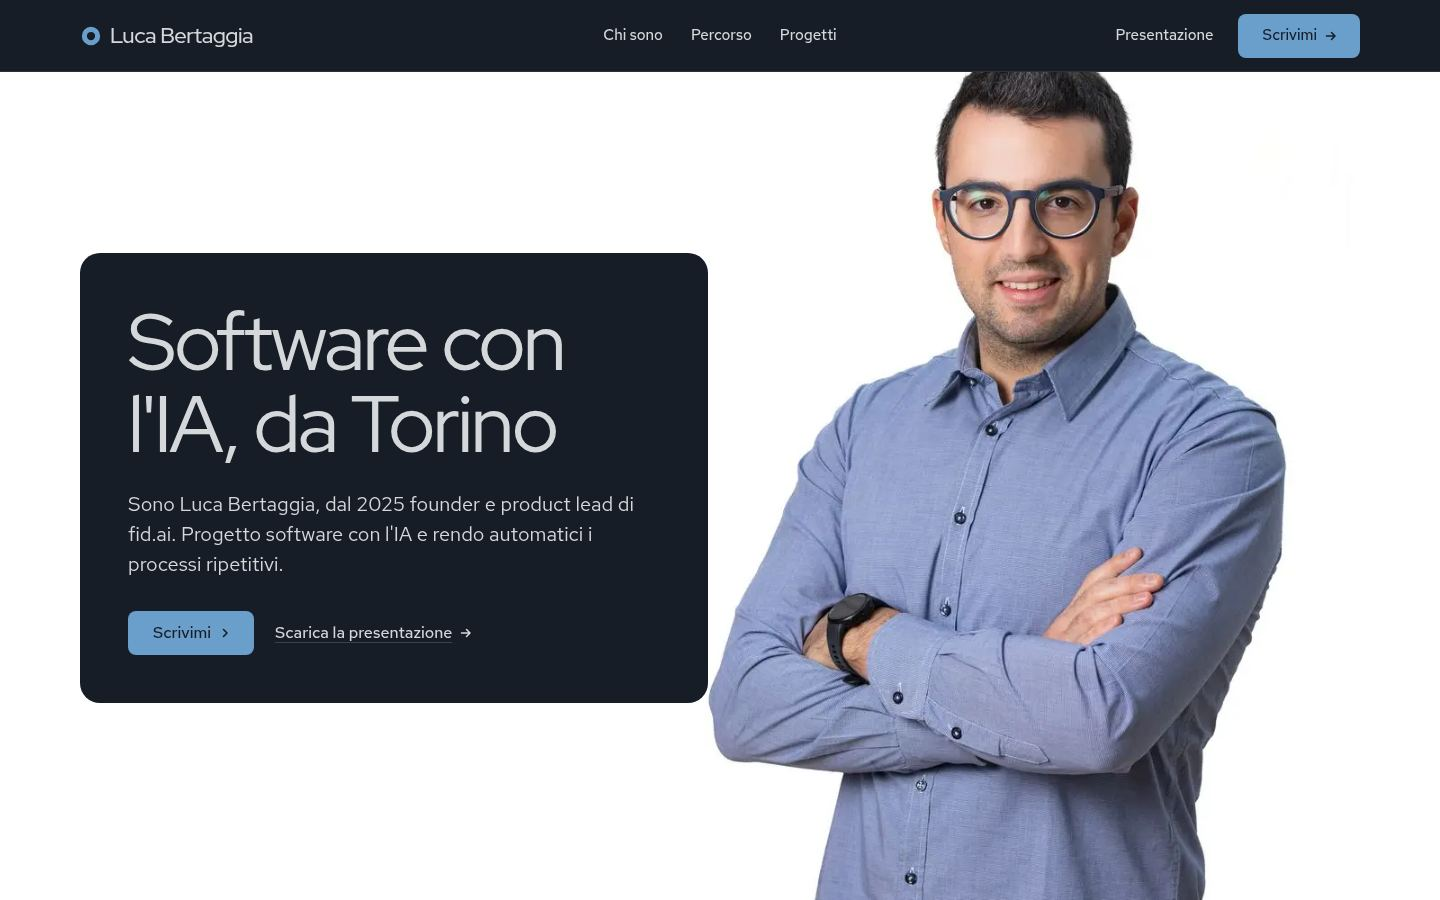
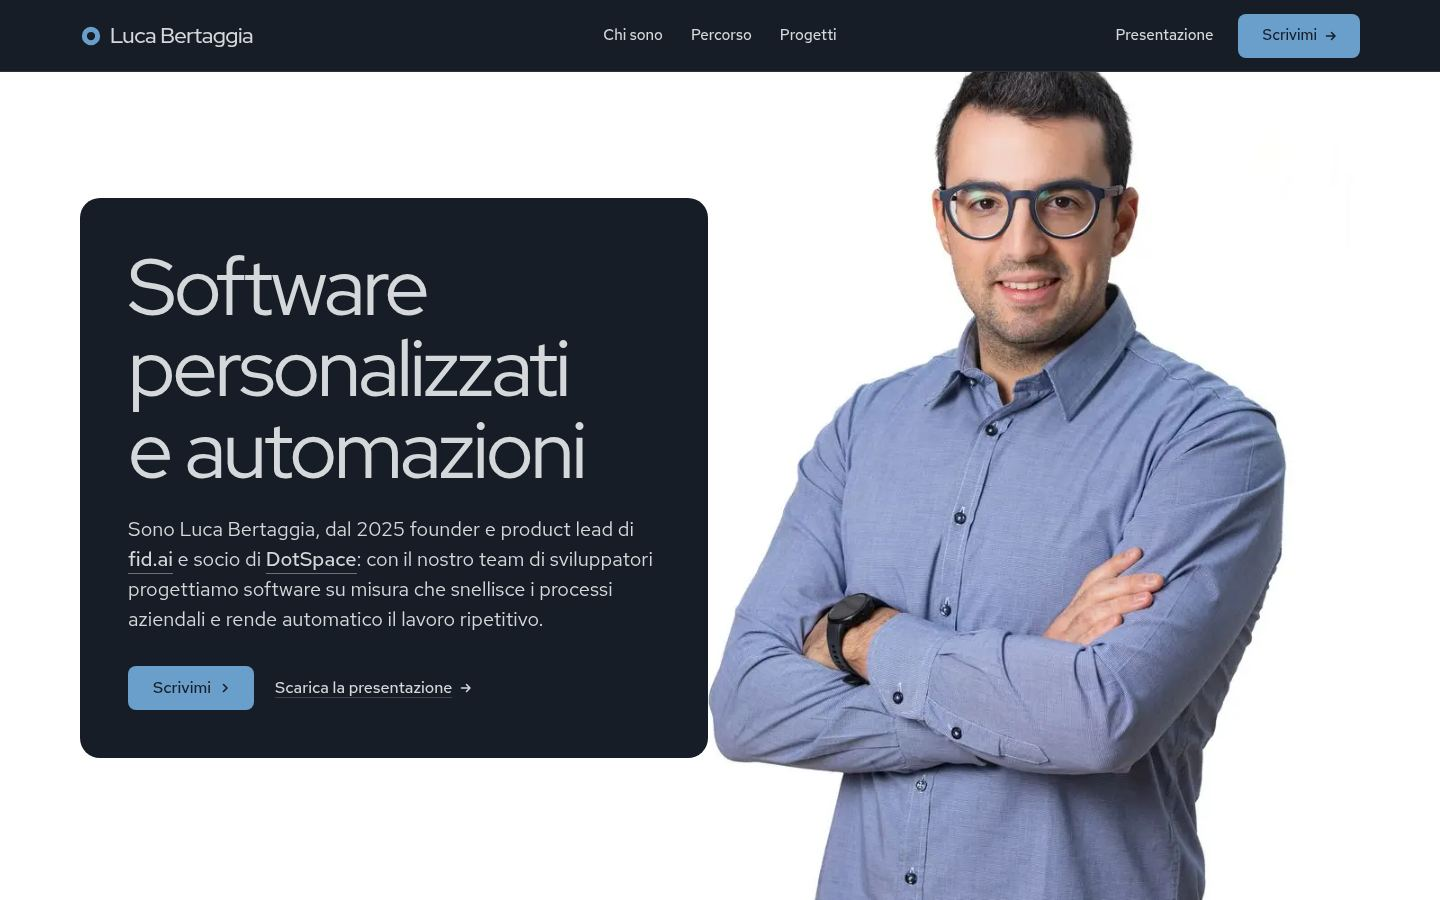
Aggiorna bozza-taste sezioni 1-4 e visual interattivo

Changed region(s): [[0.0312, 0.2178, 0.5, 0.84]]

diff --git a/bozza-taste/index.html b/bozza-taste/index.html
@@ -1,13 +1,13 @@
 <!doctype html>
-<html lang="it" data-type="service" data-radius="soft" data-buttons="arrow" data-motion>
+<html lang="it" data-type="service" data-radius="soft" data-buttons="arrow" data-ground="sky" data-motion>
 <head>
 <meta charset="utf-8">
 <meta name="viewport" content="width=device-width, initial-scale=1, viewport-fit=cover">
-<title>Luca Bertaggia: software con l'IA da Torino</title>
+<title>Luca Bertaggia: software personalizzati e automazioni</title>
 <meta name="description" content="Founder e product lead di fid.ai e socio di Dotspace: progetto software con l'IA che rende automatici i processi ripetitivi.">
 <meta name="robots" content="noindex">
 <meta property="og:type" content="website">
-<meta property="og:title" content="Luca Bertaggia: software con l'IA da Torino">
+<meta property="og:title" content="Luca Bertaggia: software personalizzati e automazioni">
 <meta property="og:description" content="Progetto software con l'IA e rendo automatici i processi ripetitivi.">
 <meta property="og:image" content="share.jpg">
 <meta name="twitter:card" content="summary_large_image">
@@ -19,6 +19,8 @@
 <link rel="preload" href="fonts/red-hat-display-latin.woff2" as="font" type="font/woff2" crossorigin>
 <link rel="preload" href="fonts/red-hat-text-latin.woff2" as="font" type="font/woff2" crossorigin>
 <link rel="stylesheet" href="assets/system.css">
+<link rel="stylesheet" href="assets/ui/base.css">
+<link rel="stylesheet" href="assets/ui/pipeline-board/fragment.css">
 <link rel="stylesheet" href="assets/ui/cards.css">
 <link rel="stylesheet" href="assets/motion/motion.css">
 <link rel="stylesheet" href="assets/layout/layout.css">
@@ -36,8 +38,49 @@
   --display-tracking: -0.025em;
   --display-tracking-xl: -0.035em;
 }
-/* page CSS inside a visual: the portrait's frame lower on a tablet, so "Chi sono" stays one screen there */
-@media (min-width: 640px) and (max-width: 1023px) { #chi-sono .frame { --ratio: 60%; } }
+.hero__lead a { font-weight: 500; text-decoration: underline; text-decoration-color: var(--line-strong); text-underline-offset: 4px; transition: text-decoration-color var(--dur) var(--ease); }
+.hero__lead a:hover { text-decoration-color: currentColor; }
+@media (max-width: 639px) {
+  #top .hero--photo { --photo: 33svh; }
+  #top .hero--photo .hero__text > * + * { margin-top: var(--s-4); }
+  #top .hero--photo .hero__text > .btn-row { margin-top: var(--s-5); }
+}
+@media (min-width: 640px) and (max-width: 1023px) and (orientation: portrait) {
+  #top .hero--photo { --photo: min(52svh, 72vw); }
+}
+@media (min-width: 1024px) and (max-height: 820px) {
+  #top .hero--photo:not([data-box="none"]) .hero__text { padding: var(--s-6); }
+  #top .hero--photo .hero__text > * + * { margin-top: var(--s-4); }
+  #top .hero--photo .hero__text > .btn-row { margin-top: var(--s-5); }
+  #progetti .section-head { margin-bottom: var(--s-4); }
+  #progetti .rows > li { padding-block: 10px; }
+}
+@media (min-width: 640px) and (max-width: 810px) {
+  footer#contact .closing__cta > .btn--xl { width: 100%; max-width: none; }
+}
+#chi-sono .card > .panel--inset:first-child {
+  margin-top: calc(var(--c-gap) - var(--c-pad)); --p-h: 484px; --calm: #e8eef4; --calm-k: 45%;
+  background-color: var(--ground-bg, #c6d3df);
+  background-image:
+    radial-gradient(70% 90% at 12% 0%, color-mix(in oklab, var(--ground-surface, #d6e0e9) 92%, white), transparent 70%),
+    radial-gradient(60% 80% at 100% 100%, color-mix(in oklab, var(--ground-accent, #3f6a92) 26%, var(--ground-bg, #c6d3df)), transparent 72%);
+}
+#chi-sono .ui-pipe {
+  --u-muted: color-mix(in oklab, var(--u-ink) 76%, var(--u-bg));
+  --u-soft: color-mix(in oklab, var(--u-ink) 72%, var(--u-bg));
+}
+#chi-sono .ui-pipe .ui-avatar { background: var(--u-fill-3); color: var(--u-ink); }
+@media (max-width: 1023px) {
+  #chi-sono .grid { row-gap: var(--s-7); }
+  #chi-sono .card > .panel--inset:first-child { --p-h: 344px; }
+}
+@media (max-width: 639px) {
+  #chi-sono .card > .panel--inset:first-child { --p-h: 510px; }
+}
+@container ui-pipe (max-width: 460px) {
+  .ui-pipe .ui-pipe__step { grid-template-columns: 18px minmax(0, 1fr) auto; }
+  .ui-pipe .ui-pipe__cmd { display: none; }
+}
 </style>
 <script>document.documentElement.classList.add('m-enter');setTimeout(()=>document.documentElement.classList.add('m-enter-done'),700)</script>
 <script>document.documentElement.classList.add('mo-js');setTimeout(()=>document.documentElement.classList.add('mo-safe'),2500)</script>
@@ -75,8 +118,8 @@
     <img class="hero__bg" src="img/luca-hero-2560.webp" srcset="img/luca-hero-800.webp 800w, img/luca-hero-1600.webp 1600w, img/luca-hero-2560.webp 2560w" sizes="(max-width: 639px) 390px, 100vw" width="2560" height="1600" alt="Luca Bertaggia a braccia conserte, camicia azzurra e occhiali, su fondo bianco" style="--ly-pos: 70% 30%; --ly-pos-phone: 50% 20%" fetchpriority="high" data-source="client" data-subject="Luca Bertaggia">
     <div class="wrap"><div class="hero-text">
       <div class="hero__text">
-        <h1 id="hero-h">Software con l'IA, da Torino</h1>
-        <p class="hero__lead">Sono Luca Bertaggia, dal 2025 founder e product lead di fid.ai. Progetto software con l'IA e rendo automatici i processi ripetitivi.</p>
+        <h1 id="hero-h">Software personalizzati e automazioni</h1>
+        <p class="hero__lead">Sono Luca Bertaggia, dal 2025 founder e product lead di <a href="https://fidai.it">fid.ai</a> e socio di <a href="https://dotspace.it">DotSpace</a>: con il nostro team di sviluppatori progettiamo software su misura che snellisce i processi aziendali e rende automatico il lavoro ripetitivo.</p>
         <div class="btn-row"><a class="btn btn--primary" href="mailto:luca.bertaggia@dotspace.it">Scrivimi<svg class="m-arrow" viewBox="0 0 12 12" aria-hidden="true"><path class="m-arrow__stem" d="M1 6h8"/><path class="m-arrow__head" d="M4.5 2.5 8 6l-3.5 3.5"/></svg></a><a class="btn btn--secondary" href="../Luca-Bertaggia-IT-Italiano.pdf">Scarica la presentazione</a></div>
       </div>
     </div></div>
@@ -87,14 +130,54 @@
       <div class="span-5">
         <div class="section-head"><h2 id="chi-h">Meno lavoro ripetuto a mano</h2></div>
         <div class="stack-4">
-          <p class="t-lead">Vengo dal mondo accademico, dove ho iniziato ad automatizzare con l'IA i processi amministrativi più noiosi. Oggi sono founder e product lead di fid.ai e socio di Dotspace.</p>
-          <p>Smonto i sistemi che le persone ripetono a mano e li rimonto in flussi autonomi, per togliere lavoro superfluo. Uso IA, pipeline RAG e orchestrazione di LLM.</p>
+          <p class="t-lead">Vengo dal mondo accademico, dove ho iniziato ad automatizzare con l'IA i processi amministrativi più noiosi. Oggi mi occupo di smontare i sistemi che le persone ripetono a mano e rimontarli in flussi autonomi, per togliere lavoro superfluo.</p>
+          <p>Uso IA, pipeline RAG e orchestrazione di LLM.</p>
           <p>Sicurezza, permessi e dati personali vengono sempre al primo posto.</p>
           <p><a class="link" href="#percorso">Leggi il percorso</a></p>
         </div>
       </div>
-      <div class="frame frame--photo frame--split frame--fill fill span-6 start-7">
-        <img class="frame__img" src="img/luca-ritratto-1280.webp" srcset="img/luca-ritratto-400p.webp 400w, img/luca-ritratto-1280.webp 1280w" sizes="(max-width: 639px) 342px, (max-width: 1023px) 100vw, 628px" width="1280" height="1024" alt="Luca Bertaggia in piedi con le mani in tasca, sorridente" loading="lazy" decoding="async" style="object-position: 50% 20%" data-source="client" data-subject="Luca Bertaggia">
+      <div class="card m-nolift span-6 start-7" data-ui-still>
+        <div class="panel panel--inset">
+          <div class="stage">
+            <div class="at-rise fit" style="--ax:32px;--ay:84px;--ay-sm:108px;--fit-max:540px">
+              <div class="ui ui-panel ui-pipe" data-ui="pipeline-board">
+                <div class="ui-pipe__head">
+                  <svg class="ui-icon ui-pipe__branch" viewBox="0 0 16 16" aria-hidden="true"><circle cx="4.5" cy="3.5" r="1.5"/><circle cx="4.5" cy="12.5" r="1.5"/><circle cx="11.5" cy="5" r="1.5"/><path d="M4.5 5v6M11.5 6.5c0 2.6-2.2 3.6-5.6 4.6"/></svg>
+                  <span class="ui-pipe__repo">flussi/automazione</span><i class="ui-pipe__slash">/</i><code class="ui-pipe__ref">produzione</code>
+                  <span class="ui-pipe__run">#6000</span>
+                  <span class="ui-spacer"></span>
+                  <span class="ui-pipe__total"><svg class="ui-icon" viewBox="0 0 16 16" aria-hidden="true"><circle cx="8" cy="8.5" r="5.5"/><path d="M8 5.5v3l2 1.25M6.5 1.75h3"/></svg><span data-pipe-total>3.8s</span></span>
+                  <span class="ui-chip ui-chip--ink ui-chip--live ui-pipe__chip" data-pipe-chip data-done="Completato">Attivo</span>
+                </div>
+                <div class="ui-pipe__commit">
+                  <span class="ui-avatar" data-tone="4">LB</span>
+                  <span class="ui-pipe__msg">Pratica manuale -&gt; flusso autonomo</span>
+                  <code class="ui-pipe__sha">rag-gdpr</code>
+                  <button class="ui-btn ui-btn--ghost ui-btn--sm ui-pipe__btn" type="button" tabindex="-1" data-pipe-btn data-done="Riesegui">Ferma</button>
+                </div>
+                <ol class="ui-pipe__steps">
+                  <li class="ui-pipe__step is-done" data-step="raccolta"><span class="ui-pipe__ico"><svg viewBox="0 0 16 16" aria-hidden="true"><path d="m4.5 8.2 2.3 2.3 4.7-5"/></svg></span><span class="ui-pipe__name"><span class="ui-pipe__tool" aria-hidden="true"><img data-icon="gmail" src="assets/icons/gmail.svg" width="13" height="13" loading="lazy" decoding="async" alt=""></span><span class="ui-pipe__nm">Raccolta</span></span><code class="ui-pipe__cmd">35 GB email · record normalizzati</code><span class="ui-pipe__time" data-time>0.6s</span><span class="ui-pipe__bar"><i></i></span></li>
+                  <li class="ui-pipe__step is-done" data-step="gdpr"><span class="ui-pipe__ico"><svg viewBox="0 0 16 16" aria-hidden="true"><path d="m4.5 8.2 2.3 2.3 4.7-5"/></svg></span><span class="ui-pipe__name"><span class="ui-pipe__tool" aria-hidden="true"><img data-icon="python" src="assets/icons/python.svg" width="13" height="13" loading="lazy" decoding="async" alt=""></span><span class="ui-pipe__nm">Filtro GDPR</span></span><code class="ui-pipe__cmd">anonimizzazione dati personali</code><span class="ui-pipe__time" data-time>0.8s</span><span class="ui-pipe__bar"><i></i></span></li>
+                  <li class="ui-pipe__step is-run" data-step="rag" style="--k:0.6"><span class="ui-pipe__ico"><svg viewBox="0 0 16 16" aria-hidden="true"><path d="m4.5 8.2 2.3 2.3 4.7-5"/></svg></span><span class="ui-pipe__name"><span class="ui-pipe__tool" aria-hidden="true"><img data-icon="postgres" src="assets/icons/postgres.svg" width="13" height="13" loading="lazy" decoding="async" alt=""></span><span class="ui-pipe__nm">Pipeline RAG</span></span><code class="ui-pipe__cmd">85 regole operative estratte</code><span class="ui-pipe__time" data-time="1.1s">0.7s</span><span class="ui-pipe__bar"><i></i></span></li>
+                  <li class="ui-pipe__step" data-step="llm"><span class="ui-pipe__ico"><svg viewBox="0 0 16 16" aria-hidden="true"><path d="m4.5 8.2 2.3 2.3 4.7-5"/></svg></span><span class="ui-pipe__name"><span class="ui-pipe__tool" aria-hidden="true"><img data-icon="docker" src="assets/icons/docker.svg" width="13" height="13" loading="lazy" decoding="async" alt=""></span><span class="ui-pipe__nm">Router LLM</span></span><code class="ui-pipe__cmd">classifica ed esegue pratica</code><span class="ui-pipe__time" data-time="0.9s">In coda</span><span class="ui-pipe__bar"><i></i></span></li>
+                  <li class="ui-pipe__step" data-step="consegna"><span class="ui-pipe__ico"><svg viewBox="0 0 16 16" aria-hidden="true"><path d="m4.5 8.2 2.3 2.3 4.7-5"/></svg></span><span class="ui-pipe__name"><span class="ui-pipe__tool" aria-hidden="true"><img data-icon="google-calendar" src="assets/icons/google-calendar.svg" width="13" height="13" loading="lazy" decoding="async" alt=""></span><span class="ui-pipe__nm">Consegna</span></span><code class="ui-pipe__cmd">documento pronto e archiviato</code><span class="ui-pipe__time" data-time="0.4s">In coda</span><span class="ui-pipe__bar"><i></i></span></li>
+                </ol>
+                <div class="ui-pipe__log" aria-hidden="true">
+                  <span class="ui-pipe__line" data-step="raccolta"><b>$</b>sync gmail --archivio 35GB</span>
+                  <span class="ui-pipe__line" data-step="raccolta">normalizzati 6.000 record in ingresso</span>
+                  <span class="ui-pipe__line" data-step="gdpr"><b>$</b>python filtro_gdpr.py --strict</span>
+                  <span class="ui-pipe__line" data-step="gdpr">dati personali anonimizzati prima dell'indice</span>
+                  <span class="ui-pipe__line is-on" data-step="rag"><b>$</b>rag-index --fonti postgres</span>
+                  <span class="ui-pipe__line is-on" data-step="rag">estratte 85 regole operative verificate</span>
+                  <span class="ui-pipe__line" data-step="llm"><b>$</b>docker exec router-llm --pratica</span>
+                  <span class="ui-pipe__line" data-step="llm">pratica classificata ed eseguita in sicurezza</span>
+                  <span class="ui-pipe__line" data-step="consegna"><b>$</b>calendar-sync --archivia</span>
+                  <span class="ui-pipe__line" data-step="consegna">documento pronto, verifica permessi completata</span>
+                </div>
+              </div>
+            </div>
+          </div>
+        </div>
       </div>
     </div>
   </section>
@@ -102,33 +185,33 @@
   <section class="section statement" id="whoami" data-moment="word-highlight" aria-label="In breve">
     <div class="wrap">
       <p class="t-label">whoami</p>
-      <p class="mo-wh__text">Costruisco software che fa <strong>il lavoro noioso</strong> al posto delle persone. Lavoro a Torino, con un server acceso h24. Adesso insegno a una segreteria a rispondere ai clienti da sola: si chiama fid.ai.</p>
+      <p class="mo-wh__text">Detesto il lavoro ripetitivo e promuovo la delega a <strong>sistemi esperti personalizzati</strong>. Lavoro da remoto proteggendo i dati dei clienti: server dedicati in Europa, conformità al GDPR, permessi granulari e rispetto dell'AI Act.</p>
     </div>
   </section>
 
   <section class="section" id="percorso" data-moment="photo-chapters" aria-labelledby="percorso-h">
     <div class="wrap mo-ph">
-      <div class="mo-ph__head"><h2 id="percorso-h">Il percorso, dall'università a fid.ai</h2><p>Dalla ricerca all'ufficio tirocini, poi un'azienda mia e una borsa di mobilità in Cile. <a class="link" href="../Luca-Bertaggia-IT-Italiano.pdf">Scarica la presentazione</a></p></div>
+      <div class="mo-ph__head"><h2 id="percorso-h">Il mio percorso: dallo sport al mondo dei pc</h2><p>Nasco come atleta professionista, ottengo un doppio titolo universitario sul tema, poi vinco una borsa di ricerca di quattro anni in UniTO e scopro ciò che mi appassiona: studiare i processi aziendali per semplificare i flussi lavorativi. <a class="link" href="../Luca-Bertaggia-IT-Italiano.pdf">Scarica la presentazione</a></p></div>
       <ol class="mo-ph__list">
         <li class="mo-ph__ch">
-          <figure class="mo-ph__pic"><img src="img/photo-f89289298-1920.webp" srcset="img/photo-f89289298-720p.webp 720w, img/photo-f89289298-960.webp 960w, img/photo-f89289298-1920.webp 1920w" sizes="(max-width: 639px) 342px, (max-width: 1023px) 100vw, 1280px" alt="Torino dall'alto, con le Alpi innevate sullo sfondo" width="1920" height="1280" data-source="stand-in" data-subject="Torino" loading="lazy" decoding="async"></figure>
+          <figure class="mo-ph__pic"><img src="img/photo-f181245784-1920.webp" srcset="img/photo-f181245784-720.webp 720w, img/photo-f181245784-960.webp 960w, img/photo-f181245784-1920.webp 1920w" sizes="(max-width: 639px) 720px, (max-width: 1023px) 1360px, 1280px" alt="Pista azzurra e tribuna dello Stadio Primo Nebiolo a Torino" width="1920" height="1280" data-source="stand-in" data-subject="atletica" loading="lazy" decoding="async"></figure>
           <h3>2016–2022: Scienze motorie a Torino</h3>
           <p>Triennale con 110/110, magistrale con 105/110 e dignità di stampa, due Erasmus+ all'Universidad de Almería e una ricerca sul benessere dopo la pandemia, presentata al Convegno SIPI di Padova.</p>
         </li>
         <li class="mo-ph__ch">
-          <figure class="mo-ph__pic"><img src="img/photo-f106434183-1920.webp" srcset="img/photo-f106434183-720p.webp 720w, img/photo-f106434183-960.webp 960w, img/photo-f106434183-1920.webp 1920w" sizes="(max-width: 639px) 342px, (max-width: 1023px) 100vw, 1280px" alt="Il Campus Luigi Einaudi dell'Università di Torino, facciata curva in vetro" width="1920" height="1280" data-source="stand-in" data-subject="Università di Torino" loading="lazy" decoding="async"></figure>
-          <h3>Dal 2023: ufficio tirocini dell'Università di Torino</h3>
-          <p>Oltre 800 enti convenzionati. Invece di gestirli a mano ho realizzato i primi automatismi, e la qualità del servizio è salita.</p>
+          <figure class="mo-ph__pic"><img src="img/photo-f106434183-1920.webp" srcset="img/photo-f106434183-720p.webp 720w, img/photo-f106434183-960.webp 960w, img/photo-f106434183-1920.webp 1920w" sizes="(max-width: 639px) 720px, (max-width: 1023px) 1360px, 1280px" alt="Il Campus Luigi Einaudi dell'Università di Torino, facciata curva in vetro" width="1920" height="1280" data-source="stand-in" data-subject="Università di Torino" loading="lazy" decoding="async"></figure>
+          <h3>2023–2027: ufficio tirocini dell'Università di Torino</h3>
+          <p>Oltre 800 enti convenzionati e 6.000 pratiche automatizzate. Grazie a questo progetto di digitalizzazione avvio una partnership internazionale con l'Universidad de Concepción, in Cile, per condividere il modello sui flussi formativi.</p>
         </li>
         <li class="mo-ph__ch">
-          <figure class="mo-ph__pic"><img src="img/photo-f65122033-1920.webp" srcset="img/photo-f65122033-720p.webp 720w, img/photo-f65122033-960.webp 960w, img/photo-f65122033-1920.webp 1920w" sizes="(max-width: 639px) 342px, (max-width: 1023px) 100vw, 1280px" alt="Armadi di server aperti in una sala tecnica" width="1920" height="1280" data-source="stand-in" data-subject="server" loading="lazy" decoding="async"></figure>
-          <h3>Dal 2025: fid.ai e Dotspace</h3>
-          <p>Fondo fid.ai e lo porto dall'idea al server. Divento socio di Dotspace, con tre sviluppatori.</p>
+          <figure class="mo-ph__pic"><img src="img/fidai-bozze-1600.webp" srcset="img/fidai-bozze-720.webp 720w, img/fidai-bozze-960.webp 960w, img/fidai-bozze-1600.webp 1600w" sizes="(max-width: 639px) 750px, (max-width: 1023px) 1360px, 1280px" alt="Schermata delle bozze di risposta preparate dall'intelligenza artificiale di fid.ai" width="1600" height="1000" data-source="client" data-subject="fid.ai" loading="lazy" decoding="async"></figure>
+          <h3>Dal 2025: fid.ai</h3>
+          <p>Fondo fid.ai e la porto dall'idea al server: una segreteria AI su WhatsApp per professionisti che trascrive i vocali in Europa, prepara le bozze di risposta e fissa gli appuntamenti su Google Calendar.</p>
         </li>
         <li class="mo-ph__ch">
-          <figure class="mo-ph__pic"><img src="img/photo-f13317329-1600.webp" srcset="img/photo-f13317329-720p.webp 720w, img/photo-f13317329-960.webp 960w, img/photo-f13317329-1600.webp 1600w" sizes="(max-width: 639px) 342px, (max-width: 1023px) 100vw, 1280px" alt="La biblioteca dell'Universidad de Concepción tra gli alberi del campus" width="1600" height="1067" data-source="stand-in" data-subject="Universidad de Concepción" loading="lazy" decoding="async"></figure>
-          <h3>2026: Universidad de Concepción, Cile</h3>
-          <p>Una borsa di mobilità per studiare come gestiscono i tirocini e come creare partnership formative.</p>
+          <figure class="mo-ph__pic"><img src="img/photo-f65122033-1920.webp" srcset="img/photo-f65122033-720p.webp 720w, img/photo-f65122033-960.webp 960w, img/photo-f65122033-1920.webp 1920w" sizes="(max-width: 639px) 720px, (max-width: 1023px) 1360px, 1280px" alt="Armadi di server aperti in una sala tecnica" width="1920" height="1280" data-source="stand-in" data-subject="server" loading="lazy" decoding="async"></figure>
+          <h3>2026: DotSpace</h3>
+          <p>Divento socio di DotSpace insieme a quattro sviluppatori: una squadra di cinque persone che progetta software su misura, integrazioni IA e automazioni per snellire il lavoro di aziende e professionisti.</p>
         </li>
       </ol>
     </div>

diff --git a/bozza-taste/credits.html b/bozza-taste/credits.html
@@ -73,10 +73,9 @@
   <section class="credits-list" id="credits" aria-labelledby="credits-h">
     <h1 id="credits-h">Crediti delle fotografie</h1>
     <ul>
-      <li><a href="https://commons.wikimedia.org/wiki/File:Grattacielo_Sanpaolo_e_Monte_Rosa_da_Torino.jpg">Tomatis Davide</a>, <a href="https://creativecommons.org/licenses/by-sa/4.0">CC BY-SA 4.0</a>, ritagliata</li>
+      <li><a href="https://commons.wikimedia.org/wiki/File:Stadionebiolo.JPG">The Casalegno / Gazzetta del Nebiolo</a>, <a href="https://creativecommons.org/licenses/by/4.0">CC BY 4.0</a>, ritagliata</li>
       <li><a href="https://commons.wikimedia.org/wiki/File:Campus_Luigi_Einaudi_@_Universit%C3%A0_degli_Studi_di_Torino_@_Turin_(49195208386).jpg">Guilhem Vellut from Annecy, France</a>, <a href="https://creativecommons.org/licenses/by/2.0">CC BY 2.0</a>, ritagliata</li>
       <li><a href="https://commons.wikimedia.org/wiki/File:139_Server_Room_01.jpg">Indrajit Das</a>, <a href="https://creativecommons.org/licenses/by-sa/3.0">CC BY-SA 3.0</a>, ritagliata</li>
-      <li><a href="https://commons.wikimedia.org/wiki/File:Biblioteca_Udec.jpg">Marcelo Lillo Aburto</a>, <a href="http://creativecommons.org/publicdomain/zero/1.0/deed.en">CC0</a>, ritagliata</li>
       <li><a href="https://commons.wikimedia.org/wiki/File:Video_conference_room_(3570807285).jpg">Mike Beltzner</a>, <a href="https://creativecommons.org/licenses/by-sa/2.0">CC BY-SA 2.0</a>, ritagliata</li>
       <li><a href="https://commons.wikimedia.org/wiki/File:Empty_class_room.jpg">Saral Shots</a>, <a href="http://creativecommons.org/publicdomain/zero/1.0/deed.en">CC0</a>, ritagliata</li>
       <li><a href="https://commons.wikimedia.org/wiki/File:Code_on_computer_monitor_(Unsplash).jpg">Markus Spiske markusspiske</a>, <a href="http://creativecommons.org/publicdomain/zero/1.0/deed.en">CC0</a>, ritagliata</li>
